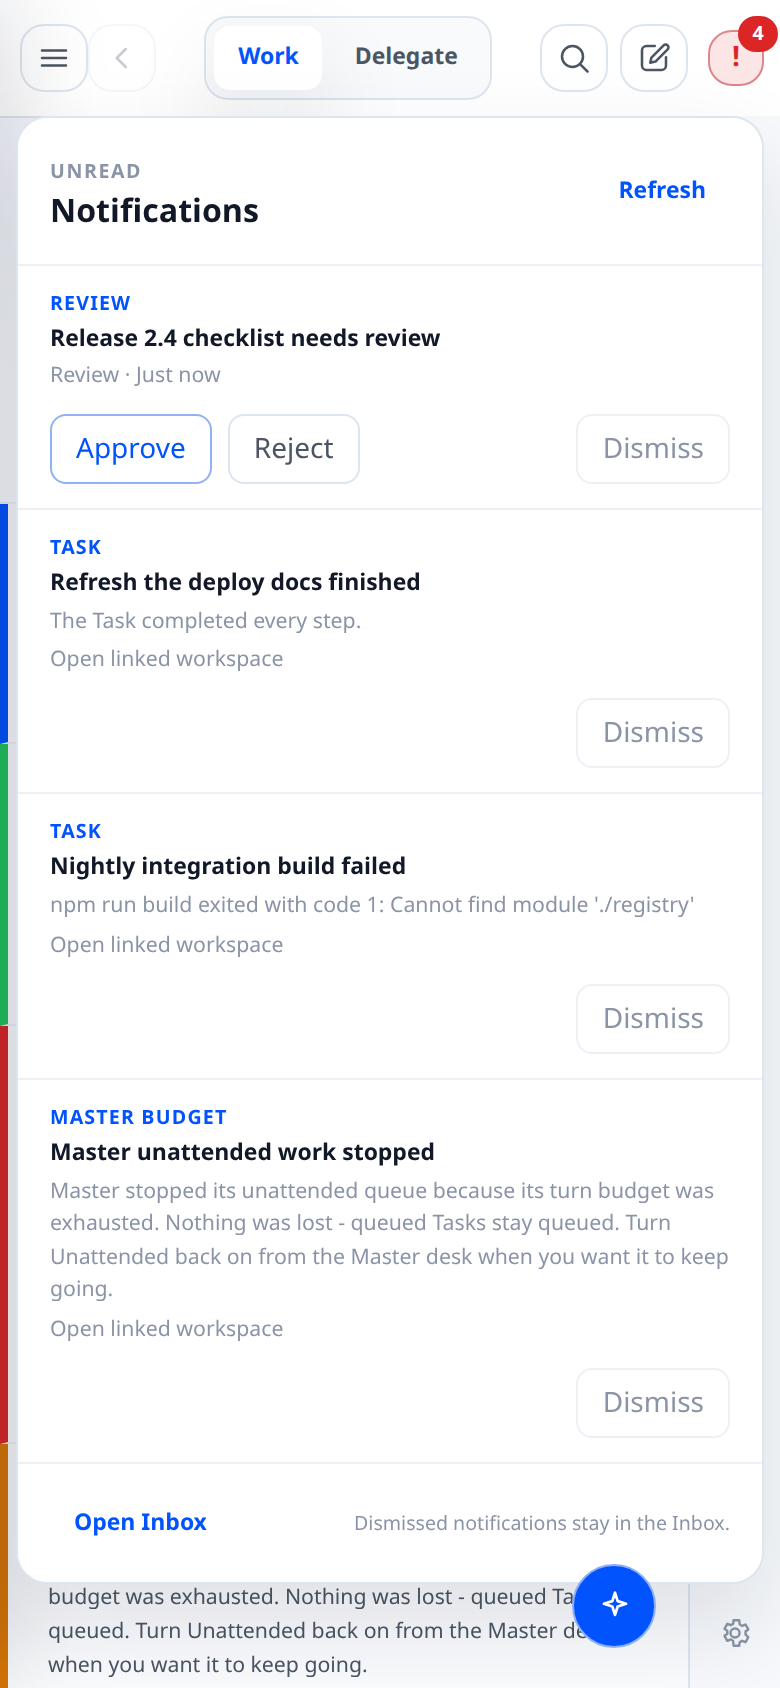
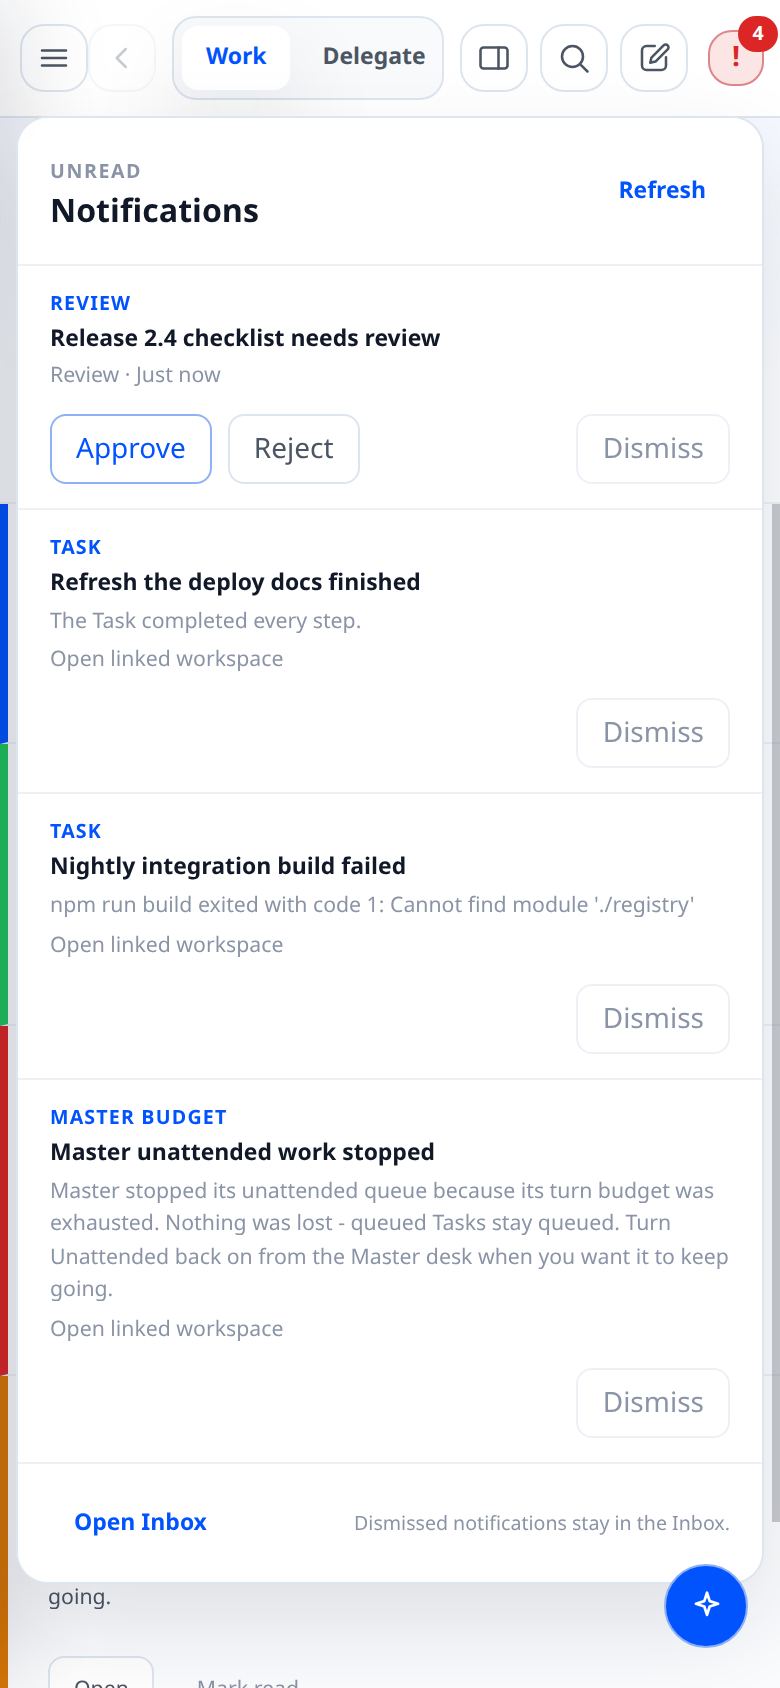
docs: recapture the Inbox evidence on the current shell (#157, #158)
The first capture predated the tool-dock work that landed alongside it, so the
390px frames still showed a tool rail that is no longer there (#156/#160). Same
disposable fixture, same assertions, current pixels.

diff --git a/docs/evidence/inbox-destination/README.md b/docs/evidence/inbox-destination/README.md
@@ -8,6 +8,10 @@ The fixture seeds one of each kind the ledger has to carry: a job review that
 still needs a decision, a finished Task, a failed Task with its build error, and
 a Master budget stop.
 
+Captured at `206193e` and re-captured on top of the tool-dock work that landed
+alongside it (#156/#160), so the phone frames show the current shell - no tool
+rail at 390px.
+
 | | Light | Dark |
 |---|---|---|
 | Inbox, 1440px | `inbox-desktop-light.png` | `inbox-desktop-dark.png` |
